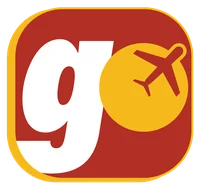
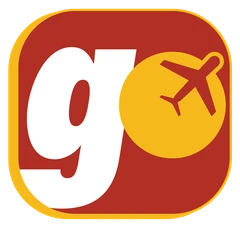
Simplify Southern Africa nav and link corporate XLGO to the app.
Remove the Southern Africa dropdown; corporate XLGO sections link to
xltravel.co.za/xlgo with brand app image.

diff --git a/corporate.html b/corporate.html
@@ -49,18 +49,7 @@
       
       <nav class="nav" id="site-nav" aria-label="Primary">
         <a href="index.html">Home</a>
-        <div class="nav-item">
-          <a href="southern-africa.html">Southern Africa <span class="chev" aria-hidden="true"></span></a>
-          <div class="dropdown" role="menu">
-            <a href="southern-africa.html#safari">Luxury Safari Lodges</a>
-            <a href="southern-africa.html#cape">Cape Province</a>
-            <a href="southern-africa.html#kzn">KwaZulu-Natal</a>
-            <a href="southern-africa.html#drakensberg">Drakensberg</a>
-            <a href="southern-africa.html#vic-falls">Victoria Falls</a>
-            <a href="southern-africa.html#mozambique">Southern Mozambique</a>
-            <a href="southern-africa.html#malawi">Malawi</a>
-          </div>
-        </div>
+        <a href="southern-africa.html">Southern Africa</a>
         <a href="destinations.html">Top Destinations</a>
         <a href="corporate.html" aria-current="page">Corporate</a>
         <a href="ngo.html">NGO Travel</a>
@@ -107,15 +96,67 @@
             <p>Flights, hotels, car rentals and more consolidated through our travel management approach and tools.</p>
           </article>
           <article class="service-card reveal">
-            <div class="service-icon" aria-hidden="true">📱</div>
-            <h3>XLGO app support</h3>
-            <p>Itineraries in one dashboard, real-time alerts, and simpler management for travel bookers and travellers.</p>
+            <a href="https://www.xltravel.co.za/xlgo/" target="_blank" rel="noopener" style="text-decoration:none;color:inherit;display:block">
+              <div class="service-icon" style="padding:6px;background:var(--white);border:1px solid var(--line)" aria-hidden="true">
+                <img src="assets/img/brand/xlgo.webp" alt="" width="40" height="38" style="width:40px;height:auto;display:block">
+              </div>
+              <h3>XLGO app support</h3>
+              <p>Itineraries in one dashboard, real-time alerts, and simpler management for travel bookers and travellers.</p>
+              <span class="card-link">Explore XLGO →</span>
+            </a>
           </article>
         </div>
       </div>
     </section>
 
-    <section class="section section-warm">
+    <section class="section section-warm" id="xlgo">
+      <div class="container">
+        <div class="feature-grid">
+          <div class="reveal">
+            <p class="eyebrow">XLGO travel app</p>
+            <h2>Manage corporate travel in one place</h2>
+            <p class="lead">XLGO is the XL Travel Group app for itineraries, alerts and simpler day-to-day travel management — for bookers and travellers.</p>
+            <ul class="feature-list">
+              <li>
+                <span class="num">01</span>
+                <div>
+                  <strong>Itineraries in one dashboard</strong>
+                  <span>Trip details at a glance for you and your travellers.</span>
+                </div>
+              </li>
+              <li>
+                <span class="num">02</span>
+                <div>
+                  <strong>Real-time alerts</strong>
+                  <span>Stay informed when plans shift — without hunting through emails.</span>
+                </div>
+              </li>
+              <li>
+                <span class="num">03</span>
+                <div>
+                  <strong>Corporate, leisure &amp; duty of care</strong>
+                  <span>Built for modern business travel programmes through the XL Group.</span>
+                </div>
+              </li>
+            </ul>
+            <div class="btn-row">
+              <a class="btn btn-secondary" href="https://www.xltravel.co.za/xlgo/" target="_blank" rel="noopener">Open XLGO app page</a>
+              <a class="btn btn-ghost" href="contact.html?interest=Corporate%20Travel%20XLGO">Ask us about XLGO</a>
+            </div>
+          </div>
+          <div class="reveal" style="display:flex;align-items:center;justify-content:center">
+            <a href="https://www.xltravel.co.za/xlgo/" target="_blank" rel="noopener" class="xlgo-app-card" style="display:block;text-decoration:none;color:inherit;background:var(--white);border:1px solid var(--line);border-radius:var(--radius-lg);padding:2rem 1.75rem;text-align:center;box-shadow:var(--shadow-md);max-width:320px;width:100%">
+              <img src="assets/img/brand/xlgo.webp" alt="XLGO travel management app" width="120" height="113" style="width:120px;height:auto;margin:0 auto 1rem;display:block">
+              <strong style="display:block;font-family:var(--font-display);font-size:1.35rem;color:var(--burgundy);margin-bottom:0.35rem">XLGO</strong>
+              <span class="text-muted" style="display:block;font-size:0.92rem;margin-bottom:1rem">Travel management app by XL Travel Group</span>
+              <span class="btn btn-primary" style="pointer-events:none">Visit xltravel.co.za/xlgo</span>
+            </a>
+          </div>
+        </div>
+      </div>
+    </section>
+
+    <section class="section">
       <div class="container">
         <div class="section-head reveal">
           <div>

diff --git a/southern-africa.html b/southern-africa.html
@@ -49,18 +49,7 @@
       
       <nav class="nav" id="site-nav" aria-label="Primary">
         <a href="index.html">Home</a>
-        <div class="nav-item">
-          <a href="southern-africa.html" aria-current="page">Southern Africa <span class="chev" aria-hidden="true"></span></a>
-          <div class="dropdown" role="menu">
-            <a href="southern-africa.html#safari">Luxury Safari Lodges</a>
-            <a href="southern-africa.html#cape">Cape Province</a>
-            <a href="southern-africa.html#kzn">KwaZulu-Natal</a>
-            <a href="southern-africa.html#drakensberg">Drakensberg</a>
-            <a href="southern-africa.html#vic-falls">Victoria Falls</a>
-            <a href="southern-africa.html#mozambique">Southern Mozambique</a>
-            <a href="southern-africa.html#malawi">Malawi</a>
-          </div>
-        </div>
+        <a href="southern-africa.html" aria-current="page">Southern Africa</a>
         <a href="destinations.html">Top Destinations</a>
         <a href="corporate.html">Corporate</a>
         <a href="ngo.html">NGO Travel</a>

diff --git a/index.html b/index.html
@@ -112,18 +112,7 @@
       </button>
       <nav class="nav" id="site-nav" aria-label="Primary">
         <a href="index.html" aria-current="page">Home</a>
-        <div class="nav-item">
-          <a href="southern-africa.html">Southern Africa <span class="chev" aria-hidden="true"></span></a>
-          <div class="dropdown" role="menu">
-            <a href="southern-africa.html#safari">Luxury Safari Lodges</a>
-            <a href="southern-africa.html#cape">Cape Province</a>
-            <a href="southern-africa.html#kzn">KwaZulu-Natal</a>
-            <a href="southern-africa.html#drakensberg">Drakensberg</a>
-            <a href="southern-africa.html#vic-falls">Victoria Falls</a>
-            <a href="southern-africa.html#mozambique">Southern Mozambique</a>
-            <a href="southern-africa.html#malawi">Malawi</a>
-          </div>
-        </div>
+        <a href="southern-africa.html">Southern Africa</a>
         <a href="destinations.html">Top Destinations</a>
         <a href="corporate.html">Corporate</a>
         <a href="ngo.html">NGO Travel</a>

diff --git a/destinations.html b/destinations.html
@@ -49,18 +49,7 @@
       
       <nav class="nav" id="site-nav" aria-label="Primary">
         <a href="index.html">Home</a>
-        <div class="nav-item">
-          <a href="southern-africa.html">Southern Africa <span class="chev" aria-hidden="true"></span></a>
-          <div class="dropdown" role="menu">
-            <a href="southern-africa.html#safari">Luxury Safari Lodges</a>
-            <a href="southern-africa.html#cape">Cape Province</a>
-            <a href="southern-africa.html#kzn">KwaZulu-Natal</a>
-            <a href="southern-africa.html#drakensberg">Drakensberg</a>
-            <a href="southern-africa.html#vic-falls">Victoria Falls</a>
-            <a href="southern-africa.html#mozambique">Southern Mozambique</a>
-            <a href="southern-africa.html#malawi">Malawi</a>
-          </div>
-        </div>
+        <a href="southern-africa.html">Southern Africa</a>
         <a href="destinations.html" aria-current="page">Top Destinations</a>
         <a href="corporate.html">Corporate</a>
         <a href="ngo.html">NGO Travel</a>

diff --git a/ngo.html b/ngo.html
@@ -49,18 +49,7 @@
       
       <nav class="nav" id="site-nav" aria-label="Primary">
         <a href="index.html">Home</a>
-        <div class="nav-item">
-          <a href="southern-africa.html">Southern Africa <span class="chev" aria-hidden="true"></span></a>
-          <div class="dropdown" role="menu">
-            <a href="southern-africa.html#safari">Luxury Safari Lodges</a>
-            <a href="southern-africa.html#cape">Cape Province</a>
-            <a href="southern-africa.html#kzn">KwaZulu-Natal</a>
-            <a href="southern-africa.html#drakensberg">Drakensberg</a>
-            <a href="southern-africa.html#vic-falls">Victoria Falls</a>
-            <a href="southern-africa.html#mozambique">Southern Mozambique</a>
-            <a href="southern-africa.html#malawi">Malawi</a>
-          </div>
-        </div>
+        <a href="southern-africa.html">Southern Africa</a>
         <a href="destinations.html">Top Destinations</a>
         <a href="corporate.html">Corporate</a>
         <a href="ngo.html" aria-current="page">NGO Travel</a>

diff --git a/about.html b/about.html
@@ -83,18 +83,7 @@
       </button>
       <nav class="nav" id="site-nav" aria-label="Primary">
         <a href="index.html">Home</a>
-        <div class="nav-item">
-          <a href="southern-africa.html">Southern Africa <span class="chev" aria-hidden="true"></span></a>
-          <div class="dropdown" role="menu">
-            <a href="southern-africa.html#safari">Luxury Safari Lodges</a>
-            <a href="southern-africa.html#cape">Cape Province</a>
-            <a href="southern-africa.html#kzn">KwaZulu-Natal</a>
-            <a href="southern-africa.html#drakensberg">Drakensberg</a>
-            <a href="southern-africa.html#vic-falls">Victoria Falls</a>
-            <a href="southern-africa.html#mozambique">Southern Mozambique</a>
-            <a href="southern-africa.html#malawi">Malawi</a>
-          </div>
-        </div>
+        <a href="southern-africa.html">Southern Africa</a>
         <a href="destinations.html">Top Destinations</a>
         <a href="corporate.html">Corporate</a>
         <a href="ngo.html">NGO Travel</a>

diff --git a/contact.html b/contact.html
@@ -49,18 +49,7 @@
       
       <nav class="nav" id="site-nav" aria-label="Primary">
         <a href="index.html">Home</a>
-        <div class="nav-item">
-          <a href="southern-africa.html">Southern Africa <span class="chev" aria-hidden="true"></span></a>
-          <div class="dropdown" role="menu">
-            <a href="southern-africa.html#safari">Luxury Safari Lodges</a>
-            <a href="southern-africa.html#cape">Cape Province</a>
-            <a href="southern-africa.html#kzn">KwaZulu-Natal</a>
-            <a href="southern-africa.html#drakensberg">Drakensberg</a>
-            <a href="southern-africa.html#vic-falls">Victoria Falls</a>
-            <a href="southern-africa.html#mozambique">Southern Mozambique</a>
-            <a href="southern-africa.html#malawi">Malawi</a>
-          </div>
-        </div>
+        <a href="southern-africa.html">Southern Africa</a>
         <a href="destinations.html">Top Destinations</a>
         <a href="corporate.html">Corporate</a>
         <a href="ngo.html">NGO Travel</a>

diff --git a/partners.html b/partners.html
@@ -49,18 +49,7 @@
       
       <nav class="nav" id="site-nav" aria-label="Primary">
         <a href="index.html">Home</a>
-        <div class="nav-item">
-          <a href="southern-africa.html">Southern Africa <span class="chev" aria-hidden="true"></span></a>
-          <div class="dropdown" role="menu">
-            <a href="southern-africa.html#safari">Luxury Safari Lodges</a>
-            <a href="southern-africa.html#cape">Cape Province</a>
-            <a href="southern-africa.html#kzn">KwaZulu-Natal</a>
-            <a href="southern-africa.html#drakensberg">Drakensberg</a>
-            <a href="southern-africa.html#vic-falls">Victoria Falls</a>
-            <a href="southern-africa.html#mozambique">Southern Mozambique</a>
-            <a href="southern-africa.html#malawi">Malawi</a>
-          </div>
-        </div>
+        <a href="southern-africa.html">Southern Africa</a>
         <a href="destinations.html">Top Destinations</a>
         <a href="corporate.html">Corporate</a>
         <a href="ngo.html">NGO Travel</a>

diff --git a/specials.html b/specials.html
@@ -49,18 +49,7 @@
       
       <nav class="nav" id="site-nav" aria-label="Primary">
         <a href="index.html">Home</a>
-        <div class="nav-item">
-          <a href="southern-africa.html">Southern Africa <span class="chev" aria-hidden="true"></span></a>
-          <div class="dropdown" role="menu">
-            <a href="southern-africa.html#safari">Luxury Safari Lodges</a>
-            <a href="southern-africa.html#cape">Cape Province</a>
-            <a href="southern-africa.html#kzn">KwaZulu-Natal</a>
-            <a href="southern-africa.html#drakensberg">Drakensberg</a>
-            <a href="southern-africa.html#vic-falls">Victoria Falls</a>
-            <a href="southern-africa.html#mozambique">Southern Mozambique</a>
-            <a href="southern-africa.html#malawi">Malawi</a>
-          </div>
-        </div>
+        <a href="southern-africa.html">Southern Africa</a>
         <a href="destinations.html">Top Destinations</a>
         <a href="corporate.html">Corporate</a>
         <a href="ngo.html">NGO Travel</a>

diff --git a/terms.html b/terms.html
@@ -49,18 +49,7 @@
       
       <nav class="nav" id="site-nav" aria-label="Primary">
         <a href="index.html">Home</a>
-        <div class="nav-item">
-          <a href="southern-africa.html">Southern Africa <span class="chev" aria-hidden="true"></span></a>
-          <div class="dropdown" role="menu">
-            <a href="southern-africa.html#safari">Luxury Safari Lodges</a>
-            <a href="southern-africa.html#cape">Cape Province</a>
-            <a href="southern-africa.html#kzn">KwaZulu-Natal</a>
-            <a href="southern-africa.html#drakensberg">Drakensberg</a>
-            <a href="southern-africa.html#vic-falls">Victoria Falls</a>
-            <a href="southern-africa.html#mozambique">Southern Mozambique</a>
-            <a href="southern-africa.html#malawi">Malawi</a>
-          </div>
-        </div>
+        <a href="southern-africa.html">Southern Africa</a>
         <a href="destinations.html">Top Destinations</a>
         <a href="corporate.html">Corporate</a>
         <a href="ngo.html">NGO Travel</a>
